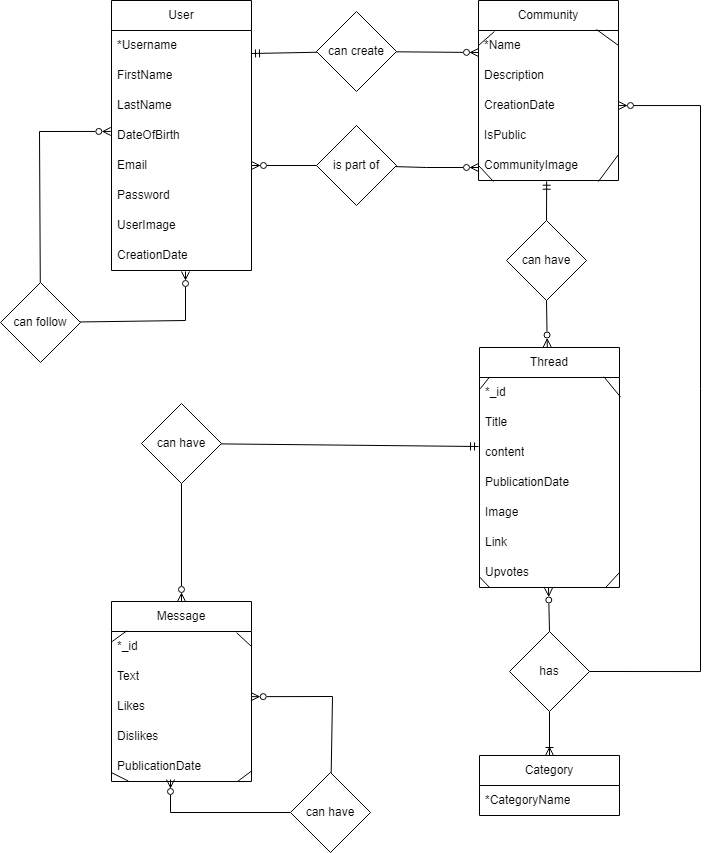
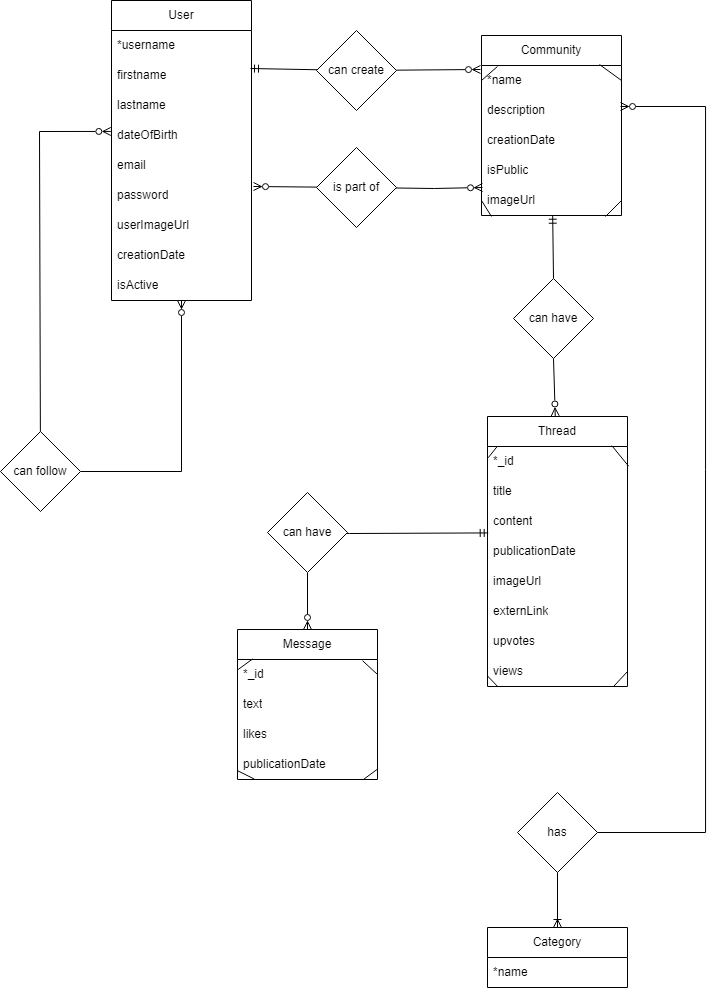
Alter content of about me page

diff --git a/apps/riddet-app/src/app/pages/about/about.component.html b/apps/riddet-app/src/app/pages/about/about.component.html
@@ -5,6 +5,11 @@
       Deze applicatie is gemaakt in het kader van het vak 'Clientside web
       frameworks' van Avans Hogeschool Breda.
     </p>
+
+    <p>
+      <b style="color:red; text-decoration:underline;">Door gebrek aan tijd is het niet mogelijk de functionaliteiten volledig af te krijgen. Echt staat op deze pagina het idee volledig uitgewerkt met een erd + overzicht van entiteiten die afgenomen zijn van de huidige staat van dit project.</b>
+    </p>
+
     <h3>Riddet</h3>
     <p>
       <b>Casusbeschrijving:</b> <br />
@@ -109,12 +114,17 @@
       <li>username: string</li>
       <li>firstName: string</li>
       <li>lastName: string</li>
+      <li>email: string</li>
       <li>dateOfBirth: Date</li>
-      <li>emailAddress: string</li>
       <li>password: string</li>
       <li>userImageUrl: string</li>
       <li>creationDate: Date</li>
       <li>isActive: boolean</li>
+      <li>roles: Role[] (enum van rollen)</li>
+      <li>joinedCommunities: ObjectId[]</li>
+      <li>createdCommunities: ObjectId[]</li>
+      <li>following: ObjectId[]</li>
+      <li>followers: ObjectId[]</li>
     </ul>
   </div>
   <div class="col-sm-12 col-md-4">
@@ -126,6 +136,10 @@
       <li>creationDate: Date</li>
       <li>imageUrl: string</li>
       <li>isPublic: boolean</li>
+      <li>categories: Category[]</li>
+      <li>participants: ObjectId[]</li>
+      <li>threads: Thread[]</li>
+      <li>createdBy: User</li>
     </ul>
   </div>
   <div class="col-sm-12 col-md-4">
@@ -134,10 +148,13 @@
       <li>_id: ObjectId</li>
       <li>title: string</li>
       <li>content: string</li>
-      <li>publicationDate: Date</li>
       <li>imageUrl: string</li>
+      <li>views: number</li>
       <li>externLink: string</li>
-      <li>upvotes: Number</li>
+      <li>upvotes: ObjectId[]</li>
+      <li>publicationDate: Date</li>
+      <li>messages: Message[]</li>
+      <li>createdBy: Objectid</li>
     </ul>
   </div>
   <div class="col-sm-12 col-md-4">
@@ -145,16 +162,17 @@
     <ul>
       <li>_id: ObjectId</li>
       <li>text: string</li>
-      <li>likes: Number</li>
+      <li>likes: ObjectId[]</li>
       <li>dislikes: Date</li>
       <li>publicationDate: Date</li>
+      <li>createdBy: Object</li>
     </ul>
   </div>
   <div class="col-sm-12 col-md-4">
     <p>Category (strong entity)</p>
     <ul>
       <li>_id: ObjectId</li>
-      <li>categoryName: string</li>
+      <li>name: string</li>
     </ul>
   </div>
 </div>

diff --git a/libs/features-ui/src/lib/message/message-list/message-list.component.html b/libs/features-ui/src/lib/message/message-list/message-list.component.html
@@ -21,19 +21,19 @@
           </p>
 
           <div *ngIf="!(authService.isOwnerOfData(message.createdBy._id)) && !(authService.userMayEdit(message.createdBy._id)) && (loggedInUser$ | async)">
-            <a (click)="like(message._id)" class="text-right position-absolute top-0 end-0" style="margin: 5px 5px 0 0; cursor:pointer;">
-              <i *ngIf="true" class="bi bi-hand-thumbs-up"></i>
-              <i *ngIf="false" class="bi bi-hand-thumbs-up-fill"></i>
+            <a (click)="like(message._id)" class="text-right position-absolute top-0 end-0" style="margin: 5px 5px 0 0; cursor:pointer; text-decoration: none !important">
+              <i *ngIf="true" class="bi bi-hand-thumbs-up">{{ message.likes.length }}</i>
+              <i *ngIf="false" class="bi bi-hand-thumbs-up-fill">{{ message.likes.length }}</i>
             </a>
           </div>
 
           <div *ngIf="authService.isOwnerOfData(message.createdBy._id) || authService.userMayEdit(message.createdBy._id)">
-            <a (click)="like(message._id)" class="text-right position-absolute top-0 end-0" style="margin: 6px 55px 0 0; cursor:pointer;">
-              <i *ngIf="true" class="bi bi-hand-thumbs-up"></i>
-              <i *ngIf="false" class="bi bi-hand-thumbs-up-fill"></i>
+            <a (click)="like(message._id)" class="text-right position-absolute top-0 end-0" style="margin: 6px 55px 0 0; cursor:pointer; text-decoration: none !important">
+              <i *ngIf="true" class="bi bi-hand-thumbs-up">{{ message.likes.length }}</i>
+              <i *ngIf="false" class="bi bi-hand-thumbs-up-fill">{{ message.likes.length }}</i>
             </a>
-            <a (click)="edit(message._id)" class="text-right position-absolute top-0 end-0" style="margin: 6px 30px 0 0; cursor:pointer;"><i class="bi bi-pencil"></i></a>
-            <a (click)="delete(message._id)" class="text-right position-absolute top-0 end-0" style="margin: 5px 5px 0 0; cursor:pointer;"><i class="bi bi-trash3"></i></a>
+            <a (click)="edit(message._id)" class="text-right position-absolute top-0 end-0" style="margin: 6px 30px 0 0; cursor:pointer; "><i class="bi bi-pencil"></i></a>
+            <a (click)="delete(message._id)" class="text-right position-absolute top-0 end-0" style="margin: 5px 5px 0 0; cursor:pointer; "><i class="bi bi-trash3"></i></a>
           </div>
         </div>
         <p class="mb-0">
